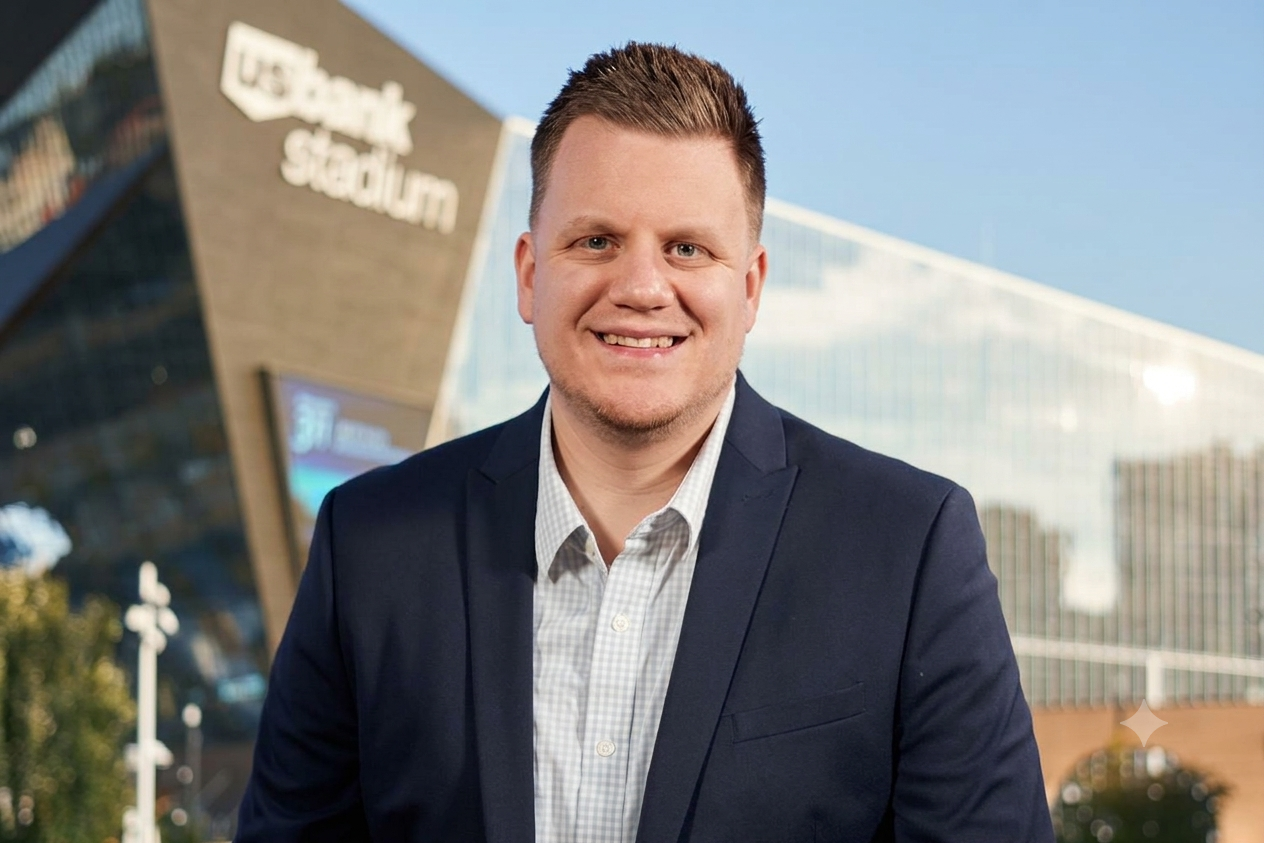
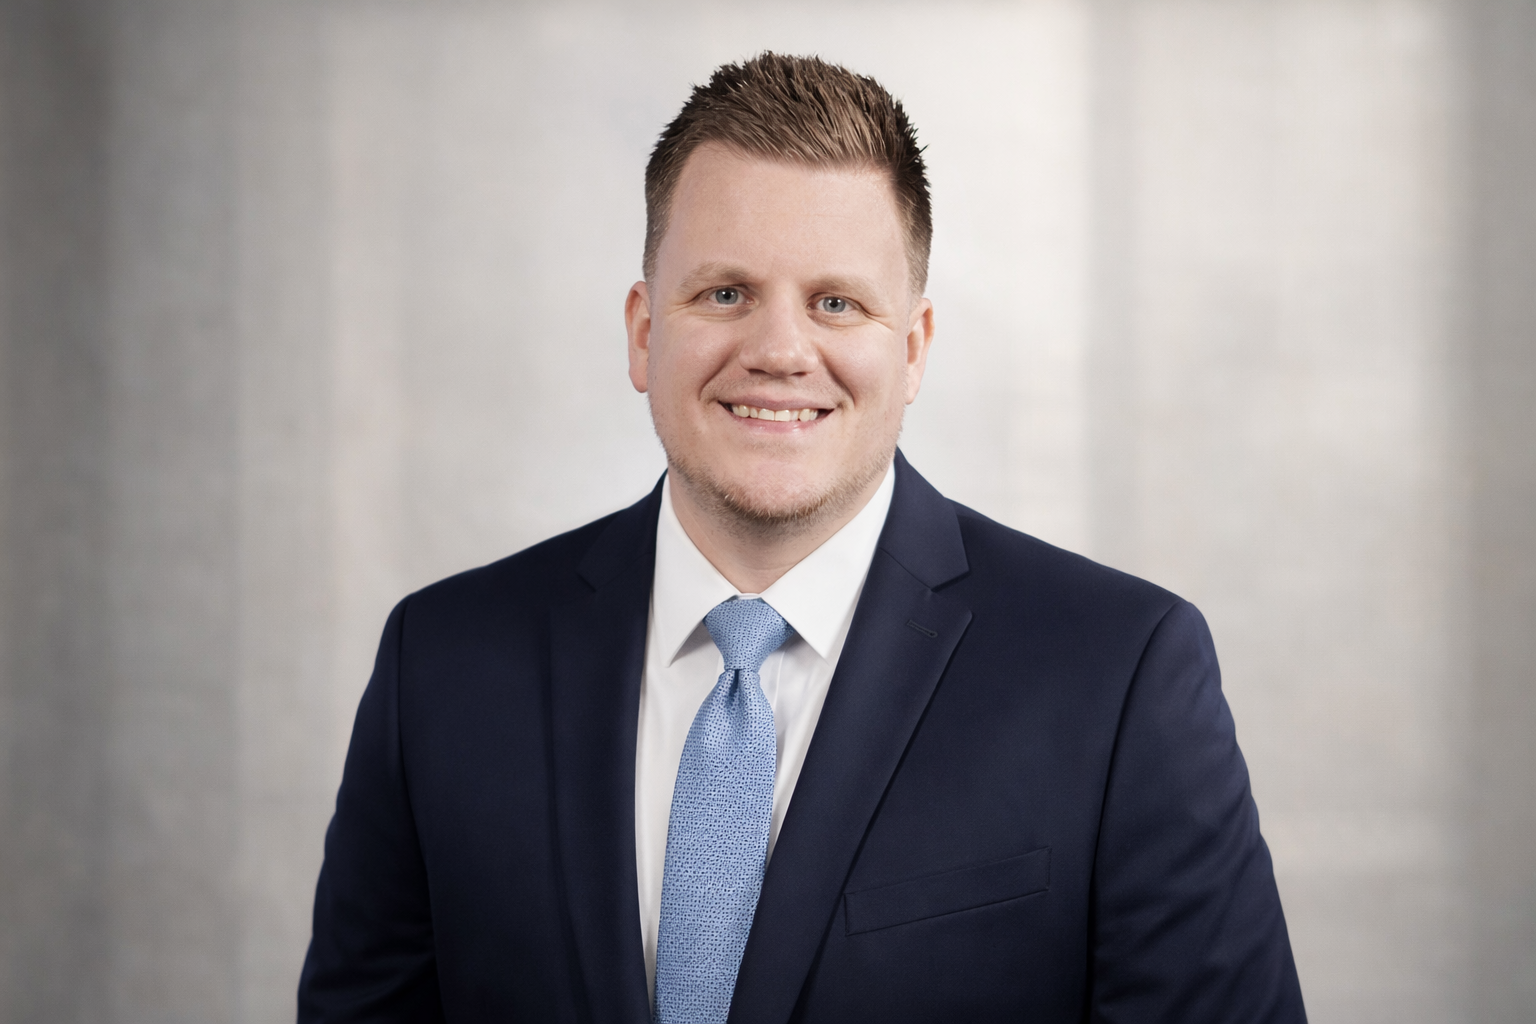
small branding changes

diff --git a/index.html b/index.html
@@ -20,7 +20,6 @@
     color: #1A1C1E;
     font-size: 16px;
     line-height: 1.6;
-    overflow-x: hidden;
   }
 
   h1, h2, h3, h4, h5 {
@@ -74,14 +73,6 @@
 
   nav a {
     color: #6B7280;
-    border-bottom: 2px solid transparent;
-    padding-bottom: 2px;
-    transition: color 0.2s, border-color 0.2s;
-  }
-
-  nav a:hover {
-    color: #0F766E;
-    border-bottom: 2px solid #0F766E;
   }
 
   nav a:last-child {
@@ -273,7 +264,7 @@
     width: 24px;
     height: 2px;
     background: #0F766E;
-    display: none;
+    display: inline-block;
     flex-shrink: 0;
   }
 
@@ -434,12 +425,11 @@
     color: #1A1C1E;
     font-style: normal;
     font-size: 14px;
-    padding: 0;
-    background: transparent;
-    border-left: none;
-    border-radius: 0;
+    padding: 12px 24px;
+    background: #F0FDF4;
+    border-left: 3px solid #0F766E;
+    border-radius: 4px;
     margin: 0 0 24px;
-    line-height: 1.6;
   }
 
   /* Work section */
@@ -480,12 +470,11 @@
   }
 
   .work-result {
-    background: transparent;
-    border-left: none;
-    border-bottom: 2px solid #0F766E;
-    padding: 0 0 8px 0;
-    border-radius: 0;
-    font-size: 14px;
+    background: #F0FDF4;
+    border-left: 3px solid #0F766E;
+    padding: 12px 16px;
+    border-radius: 4px;
+    font-size: 13px;
     color: #0F766E;
     font-weight: 600;
   }
@@ -1171,6 +1160,35 @@
   </section>
 
 </main>
+
+<footer>
+  <div class="footer-grid">
+    <div>
+      <span class="footer-brand">Nathan Lee</span>
+      <p class="footer-brand-desc">Helping enterprise leaders build revenue systems that actually get used.</p>
+    </div>
+    <div class="footer-section">
+      <h4>Explore</h4>
+      <ul>
+        <li><a href="#capabilities">Capabilities</a></li>
+        <li><a href="#stack">Stack</a></li>
+        <li><a href="#about">About</a></li>
+        <li><a href="#work">Case Studies</a></li>
+        <li><a href="#philosophy">Philosophy</a></li>
+      </ul>
+    </div>
+    <div class="footer-section">
+      <h4>Connect</h4>
+      <ul>
+        <li><a href="mailto:hello@nathanleeky.com">Email</a></li>
+        <li><a href="#">LinkedIn</a></li>
+      </ul>
+    </div>
+  </div>
+  <div class="footer-bottom">
+    <p class="footer-copyright">© 2026 Nathan Lee. Built with intention.</p>
+  </div>
+</footer>
 
 </body>
 </html>
